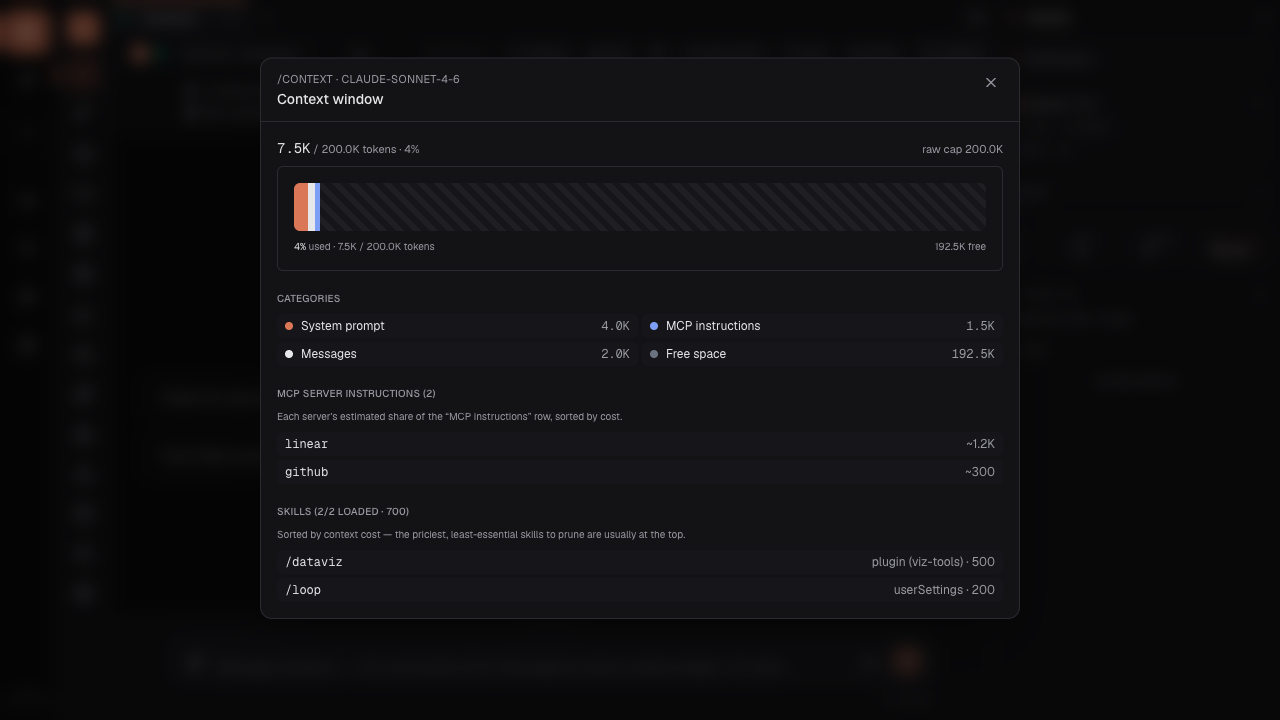
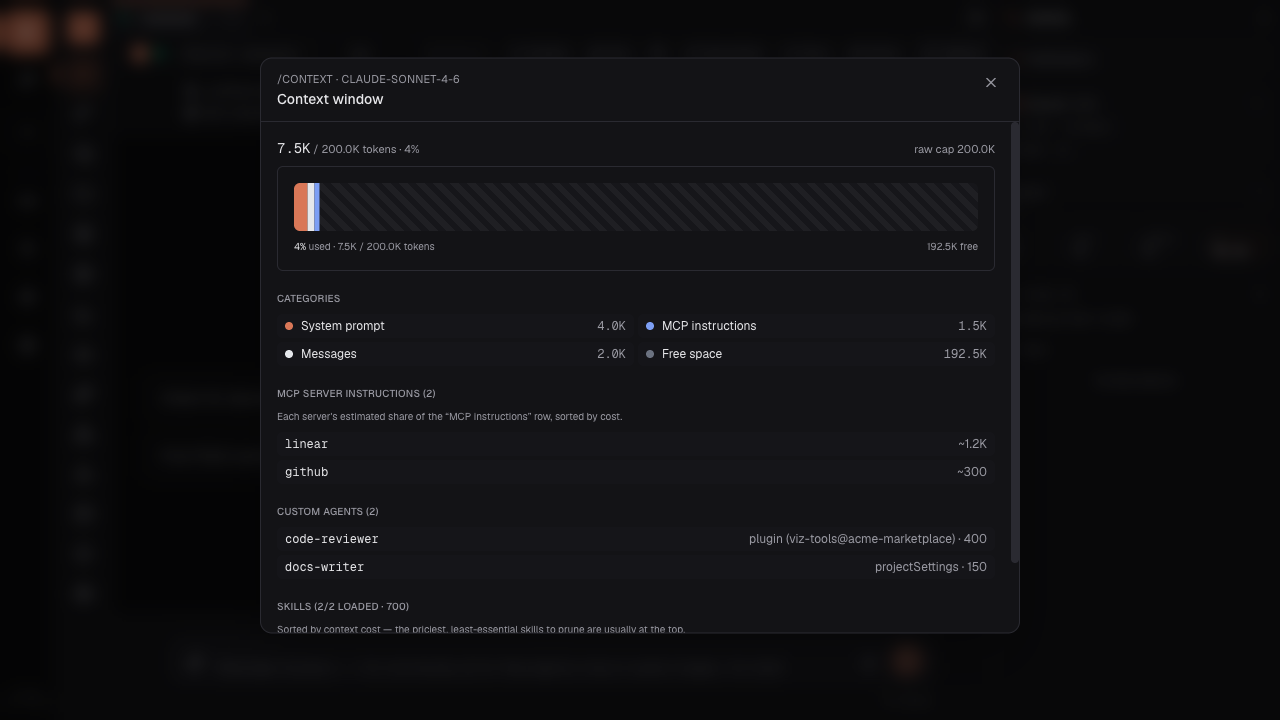
feat(sdk-update): custom agents section and id-based free-space check in /context overlay

diff --git a/components/overlays/ContextOverlay.tsx b/components/overlays/ContextOverlay.tsx
@@ -44,6 +44,11 @@ type ContextResponse = {
    * stdio, so absent/empty → the section is simply not rendered.
    */
   mcpInstructions?: { serverName: string; tokens: number }[];
+  /**
+   * Custom agents' context cost. SDK 0.3.304 added `pluginId` (providing
+   * plugin) and `path` (agent file on the CLI's machine); both stdio-only.
+   */
+  agents?: { agentType: string; source: string; pluginId?: string; path?: string; tokens: number }[];
   deferredBuiltinTools?: { name: string; tokens: number; isLoaded: boolean }[];
   // CC 2.1.261 parity ("/skill-doctor"). Per-skill token cost, already
   // computed by the SDK's getContextUsage() but not rendered until now.
@@ -309,6 +314,29 @@ export function ContextOverlay({ sessionId, onClose }: Props) {
               </ul>
             </Section>
           )}
+          {data.agents && data.agents.length > 0 && (
+            <Section title={`Custom agents (${data.agents.length})`}>
+              <ul className="space-y-1 text-xs" data-testid="agent-cost-list">
+                {[...data.agents]
+                  .sort((a, b) => b.tokens - a.tokens)
+                  .map((a) => (
+                    <li
+                      key={`${a.source}/${a.pluginId ?? ""}/${a.agentType}`}
+                      data-testid="agent-cost-row"
+                      title={a.path}
+                      className="flex items-baseline justify-between gap-2 rounded-md bg-[var(--panel-2)]/40 px-2 py-1"
+                    >
+                      <span className="truncate font-mono">{a.agentType}</span>
+                      <span className="text-[var(--muted)]">
+                        {a.source}
+                        {a.pluginId && <span data-testid="agent-plugin-id"> ({a.pluginId})</span>} ·{" "}
+                        {fmtTokens(a.tokens)}
+                      </span>
+                    </li>
+                  ))}
+              </ul>
+            </Section>
+          )}
           {data.skills && data.skills.skillFrontmatter.length > 0 && (
             <Section title={`Skills (${data.skills.includedSkills}/${data.skills.totalSkills} loaded · ${fmtTokens(data.skills.tokens)})`}>
               <p className="mb-2 text-[10px] text-[var(--muted)]">
@@ -412,7 +440,7 @@ function StackedBar({
   // on `kind` when present, falling back to the old name check for a CLI
   // that predates the field.
   const usedCategories = categories.filter((c) =>
-    c.kind ? c.kind !== "free" : c.name !== "Free space",
+    c.kind ? c.kind !== "free" : c.id ? c.id !== "free_space" : c.name !== "Free space",
   );
   // Sort biggest first so the bar's widest segments lead.
   const sorted = [...usedCategories].sort((a, b) => b.tokens - a.tokens);

diff --git a/tests/e2e/sdk-update-0.3.304-context-usage.spec.ts b/tests/e2e/sdk-update-0.3.304-context-usage.spec.ts
@@ -43,6 +43,10 @@ const CONTEXT_RESPONSE = {
     { serverName: "github", tokens: 300 },
     { serverName: "linear", tokens: 1200 },
   ],
+  agents: [
+    { agentType: "code-reviewer", source: "plugin", pluginId: "viz-tools@acme-marketplace", path: "/home/u/agents/code-reviewer.md", tokens: 400 },
+    { agentType: "docs-writer", source: "projectSettings", tokens: 150 },
+  ],
   skills: {
     totalSkills: 2,
     includedSkills: 2,
@@ -157,6 +161,12 @@ test.describe("SDK 0.3.304 — richer getContextUsage() in the Context overlay",
       /viz-tools\/skills\/dataviz\/SKILL\.md$/,
     );
 
+    const agentRows = page.getByTestId("agent-cost-row");
+    await expect(agentRows).toHaveCount(2);
+    await expect(agentRows.nth(0)).toContainText("code-reviewer");
+    await expect(agentRows.nth(0)).toHaveAttribute("title", "/home/u/agents/code-reviewer.md");
+    await expect(page.getByTestId("agent-plugin-id")).toContainText("viz-tools@acme-marketplace");
+
     await expect(
       page.locator('[data-testid="context-category-row"][data-category-id="mcp_instructions"]'),
     ).toHaveCount(1);
@@ -178,6 +188,7 @@ test.describe("SDK 0.3.304 — richer getContextUsage() in the Context overlay",
         body: JSON.stringify({
           ...CONTEXT_RESPONSE,
           mcpInstructions: undefined,
+          agents: undefined,
           categories: CONTEXT_RESPONSE.categories.map(({ name, tokens, color }) => ({ name, tokens, color })),
         }),
       });
@@ -185,6 +196,7 @@ test.describe("SDK 0.3.304 — richer getContextUsage() in the Context overlay",
     await openContext(page);
 
     await expect(page.getByTestId("mcp-instructions-row")).toHaveCount(0);
+    await expect(page.getByTestId("agent-cost-row")).toHaveCount(0);
     await expect(page.getByTestId("context-category-row")).toHaveCount(4);
   });
 });

diff --git a/.claudius/sdk-updater/run-notes/0.3.304.md b/.claudius/sdk-updater/run-notes/0.3.304.md
@@ -7,12 +7,12 @@
 ## SDK changelog highlights
 
 - `suspendSseStream(query)` / `resumeSseStream(query)` (browser SDK) — [skipped — Claudius never imports `browser-sdk`; it drives the Node `query()` over stdio, and these functions only act on `sse` (remote) queries and return false otherwise. Verified with `rg "browser-sdk|suspendSse" lib app components`: no call sites.]
-- Stable row ids on `getContextUsage()` → `categories[].id` — [shipped] typed on `ContextResponse` and used as the React key and `data-category-id` in `ContextOverlay.tsx`. Typed as `string`, not a closed union, because the SDK says a later CLI may add values.
+- Stable row ids on `getContextUsage()` → `id` (`categories[].id`) — [shipped] typed on `ContextResponse`; used as the React key, as `data-category-id`, and for the free-space check in `StackedBar` (`id === "free_space"`, between the `kind` check and the English-name fallback). Typed as `string`, not a closed union, because the SDK says a later CLI may add values.
 - Plugin ids, agent/skill file paths, per-server MCP instruction token shares → `mcpInstructions` — [shipped] new "MCP server instructions" section, sorted by cost and hidden when absent.
 - `mcpInstructions[].serverName` / `.tokens` — [shipped] inner fields of the item above; both rendered.
 - `pluginName` (skill row) — [shipped] shown next to the skill's source as `plugin (name)`.
-- `pluginId` (skill row, and agent row) — [shipped for skills] typed, used in the row key and as the tooltip on the plugin name. [type-only for agents] the overlay doesn't render an agents section today.
-- `path` (skill row, and agent row) — [shipped for skills] shown as the row's hover `title`. [type-only for agents] as above. The path is on the CLI's machine, which is not ours over SSH/WSL, so it is not turned into a link.
+- `pluginId` (skill row, and agent row) — [shipped] skills: used in the row key and as the tooltip on the plugin name. Agents: shown beside the source in the new "Custom agents" section.
+- `path` (skill row, and agent row) — [shipped] shown as the row's hover `title` on both skill rows and agent rows. The path is on the CLI's machine, which is not ours over SSH/WSL, so it is not turned into a link.
 - `startup()` no longer times out during a SessionStart/Setup hook, and `initializeTimeoutMs` doc change on `startup()`/`prewarm()` — [skipped — Claudius doesn't call `startup()` or `prewarm()` (`rg "startup\(|prewarm|initializeTimeoutMs" lib app components` is empty); sessions go through `query()` in `lib/server/session.ts`.]
 - `startup()` keeps only the newest `hook_progress` per hook — [skipped — internal to `startup()`, which we don't call.]
 - Parity with Claude Code v2.1.304 — [skipped — no public type-surface change beyond the items above.]
@@ -25,6 +25,8 @@
   - extended `ContextResponse` with `categories[].id`, `mcpInstructions`, and skill `pluginName`/`pluginId`/`path`;
   - keyed the category list and stacked bar on `id ?? name` and added `data-testid="context-category-row"` plus `data-category-id`;
   - added the "MCP server instructions" section (`mcp-instructions-list` / `mcp-instructions-row`);
+  - added the "Custom agents" section (`agent-cost-list` / `agent-cost-row`, `agent-plugin-id`) from `agents` with `pluginId`/`path`;
+  - `StackedBar` free-space classification now checks `id === "free_space"` before the English name;
   - skill rows now show `(pluginName)` (`skill-plugin-name`, tooltip = `pluginId`) and have the file path as their `title`.
 - `tests/e2e/sdk-update-0.3.304-context-usage.spec.ts` (new): Playwright spec for the above, which also writes the screenshot.
 - `docs/sdk-updates/0.3.304/context-mcp-instructions.png` (new): screenshot produced by that spec.
@@ -32,10 +34,10 @@
 
 ## New UI surfaces
 
-- "MCP server instructions" section and skill plugin names in the `/context` overlay.
+- "MCP server instructions" and "Custom agents" sections, and skill plugin names in the `/context` overlay.
   - Screenshot: `docs/sdk-updates/0.3.304/context-mcp-instructions.png`
   - Spec: `tests/e2e/sdk-update-0.3.304-context-usage.spec.ts`
-  - Context: chat route in the Claudius workspace with the `/context` overlay opened over it, using a mocked `/context` response that carries the new fields. The overlay shows the categories, the two MCP servers sorted by cost, and a plugin-provided skill labelled `plugin (viz-tools)`.
+  - Context: chat route in the Claudius workspace with the `/context` overlay opened over it, using a mocked `/context` response that carries the new fields. The overlay shows the categories, the two MCP servers sorted by cost, the custom agents, and a plugin-provided skill labelled `plugin (viz-tools)`.
 
 ## Tests
 
@@ -46,5 +48,5 @@
 ## Risks / follow-ups
 
 - The SDK only populates `mcpInstructions`, `pluginId`, and `path` when the CLI answers on its own stdio, so they may be missing in some configurations. The section is hidden and the row falls back to the old rendering when they are absent.
-- The `agents` entries in `getContextUsage()` (which gained `pluginId` and `path`) are still not rendered. A "custom agents" cost section would be a natural follow-up.
+- Agent rows show `pluginId` (name + marketplace) rather than a resolved plugin name, since the SDK gives agents no `pluginName`.
 - `suspendSseStream`/`resumeSseStream` could matter if Claudius ever uses the remote (SSE) transport. It doesn't today.
